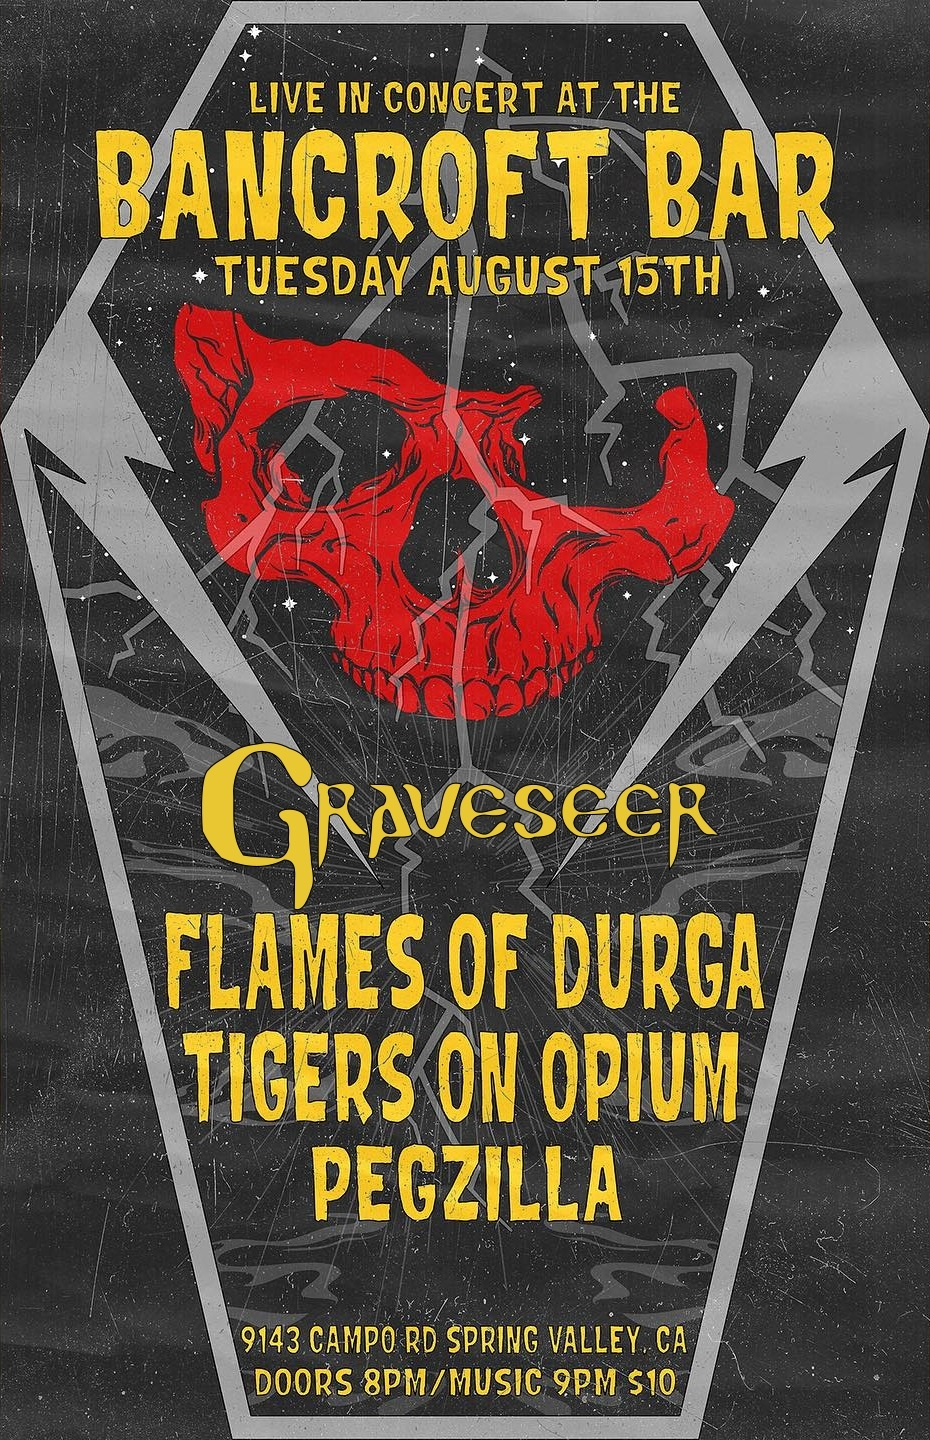
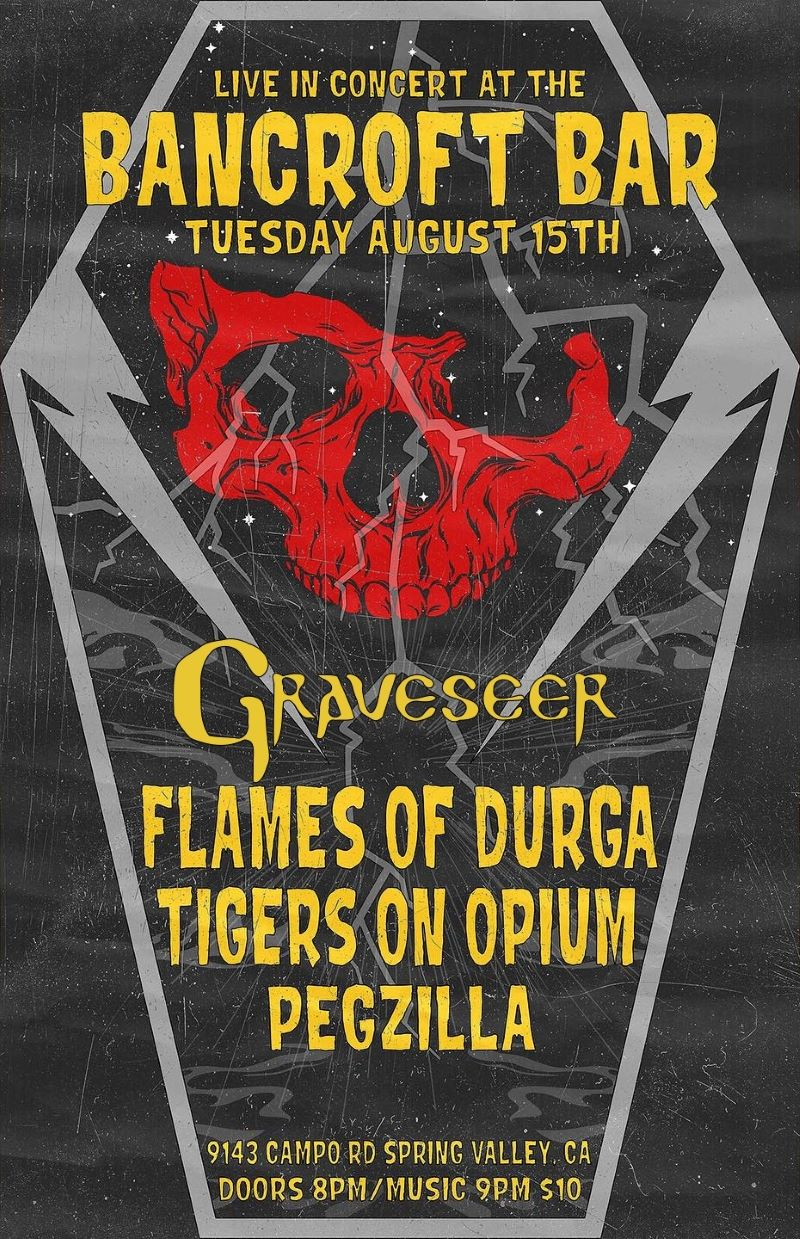
compress images

diff --git a/tailwind.config.ts b/tailwind.config.ts
@@ -9,7 +9,7 @@ const config: Config = {
   theme: {
     extend: {
       backgroundImage: {
-        'main': "url('../public/background.png')",
+        'main': "url('../public/background.jpg')",
         'gradient-radial': 'radial-gradient(var(--tw-gradient-stops))',
         'gradient-conic':
           'conic-gradient(from 180deg at 50% 50%, var(--tw-gradient-stops))',
